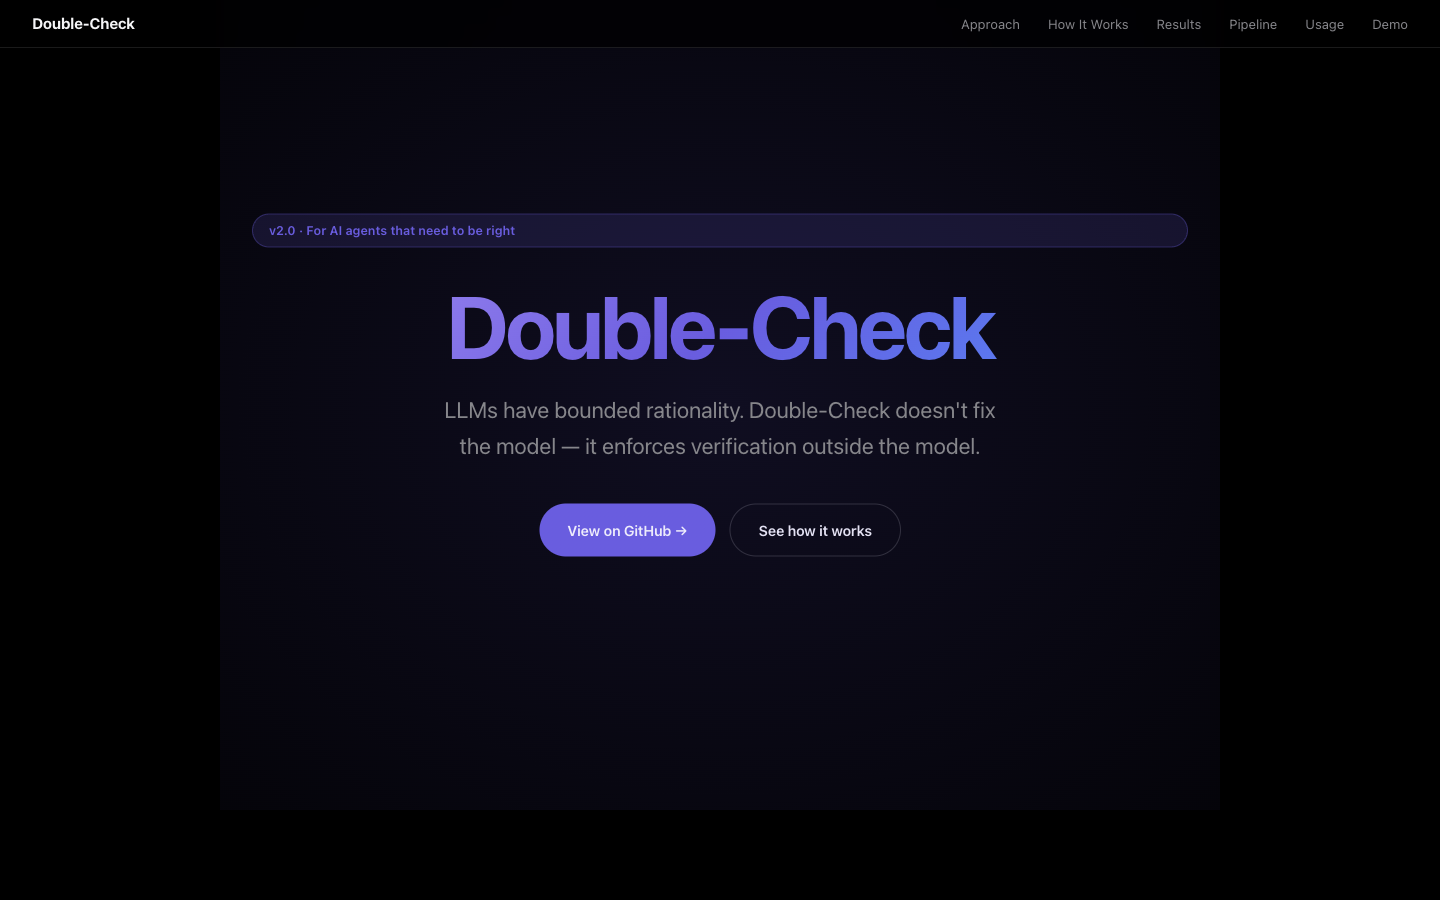
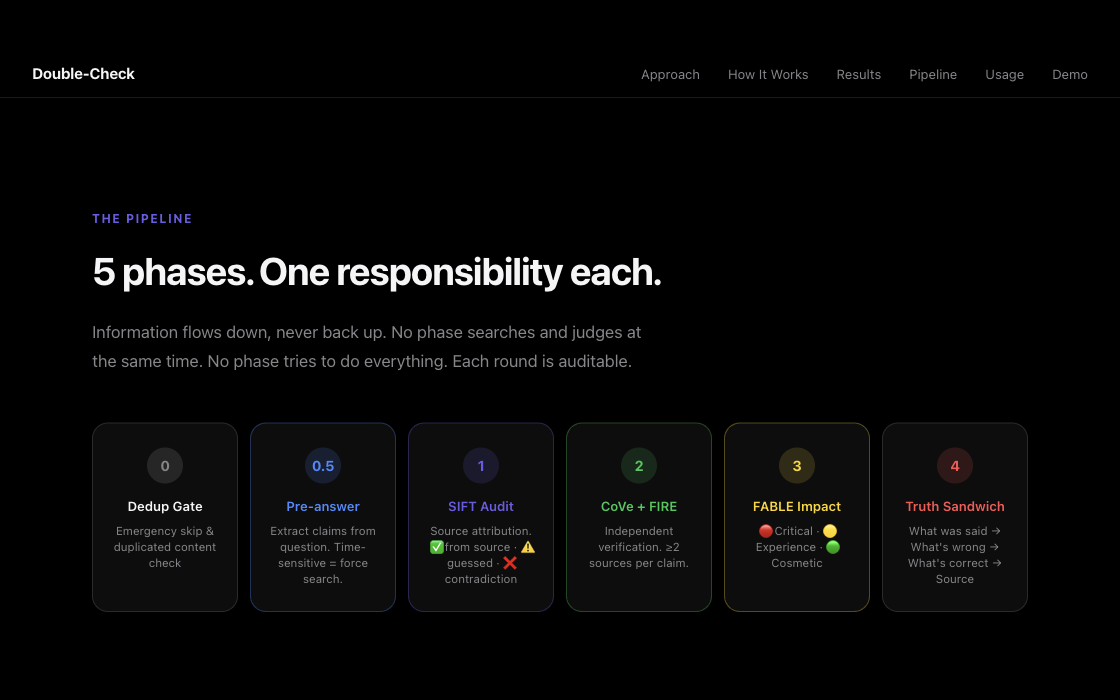
Double-Check + Shanghainese cards: full-bleed product screenshots instead of centered crops

diff --git a/index.html b/index.html
@@ -271,16 +271,16 @@
 
     <article class="project reveal">
       <a class="shot" href="https://onezion12344.github.io/double-check-agent/" target="_blank" rel="noopener">
-        <img src="shots/double-check.png" alt="Double-Check — dark landing page for an agent verification plugin" width="1440" height="900" loading="lazy">
+        <img src="shots/double-check.png" alt="Double-Check pipeline — six colour-coded phases: Dedup Gate, Pre-answer, SIFT Audit, CoVe + FIRE, FABLE Impact, Truth Sandwich" width="1120" height="700" loading="lazy">
       </a>
       <div>
         <p class="kicker">05 · Agent tooling</p>
         <h3>Double-Check</h3>
         <p>A verification plugin for AI agents. It doesn't try to make the model smarter — it forces fact, logic and tool-use checks to happen outside the model, through hooks the agent can't skip.</p>
         <ul class="facts">
+          <li>Six phases, one job each — information flows down and never back up</li>
+          <li>Enforcement is external: a skipped check shows up as a failure, not silence</li>
           <li>Public repo: 31 commits, 5,991 lines (measured 2026-10-31)</li>
-          <li>Landing page published, with a live demo</li>
-          <li>Enforcement is external — a skipped check shows up as a failure, not silence</li>
         </ul>
         <div class="tags"><span>agent hooks</span><span>verification</span><span>Python</span></div>
         <a class="link" href="https://onezion12344.github.io/double-check-agent/" target="_blank" rel="noopener">onezion12344.github.io/double-check-agent →</a>
@@ -289,7 +289,7 @@
 
     <article class="project reveal">
       <a class="shot" href="#more">
-        <img src="shots/shanghainese.png" alt="Shanghainese course PWA — lesson picker screen with one live course and four unopened ones" width="1440" height="900" loading="lazy">
+        <img src="shots/shanghainese.png" alt="Shanghainese course PWA — course picker: 沪語 live, 粵語 / English / Spanish / chess listed as not yet opened" width="560" height="350" loading="lazy">
       </a>
       <div>
         <p class="kicker">06 · Language learning PWA</p>
